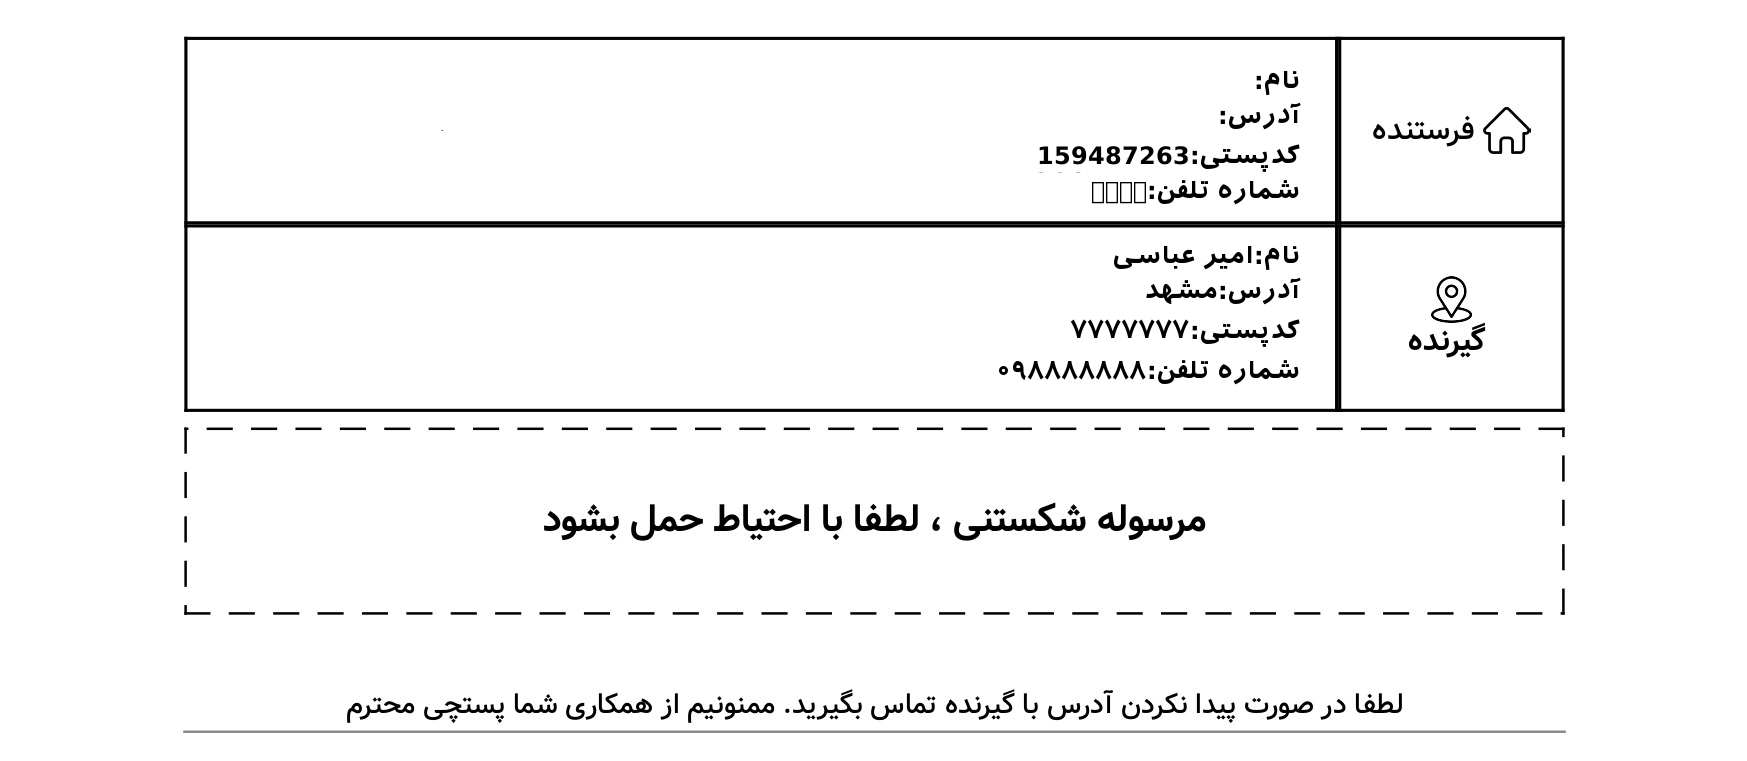
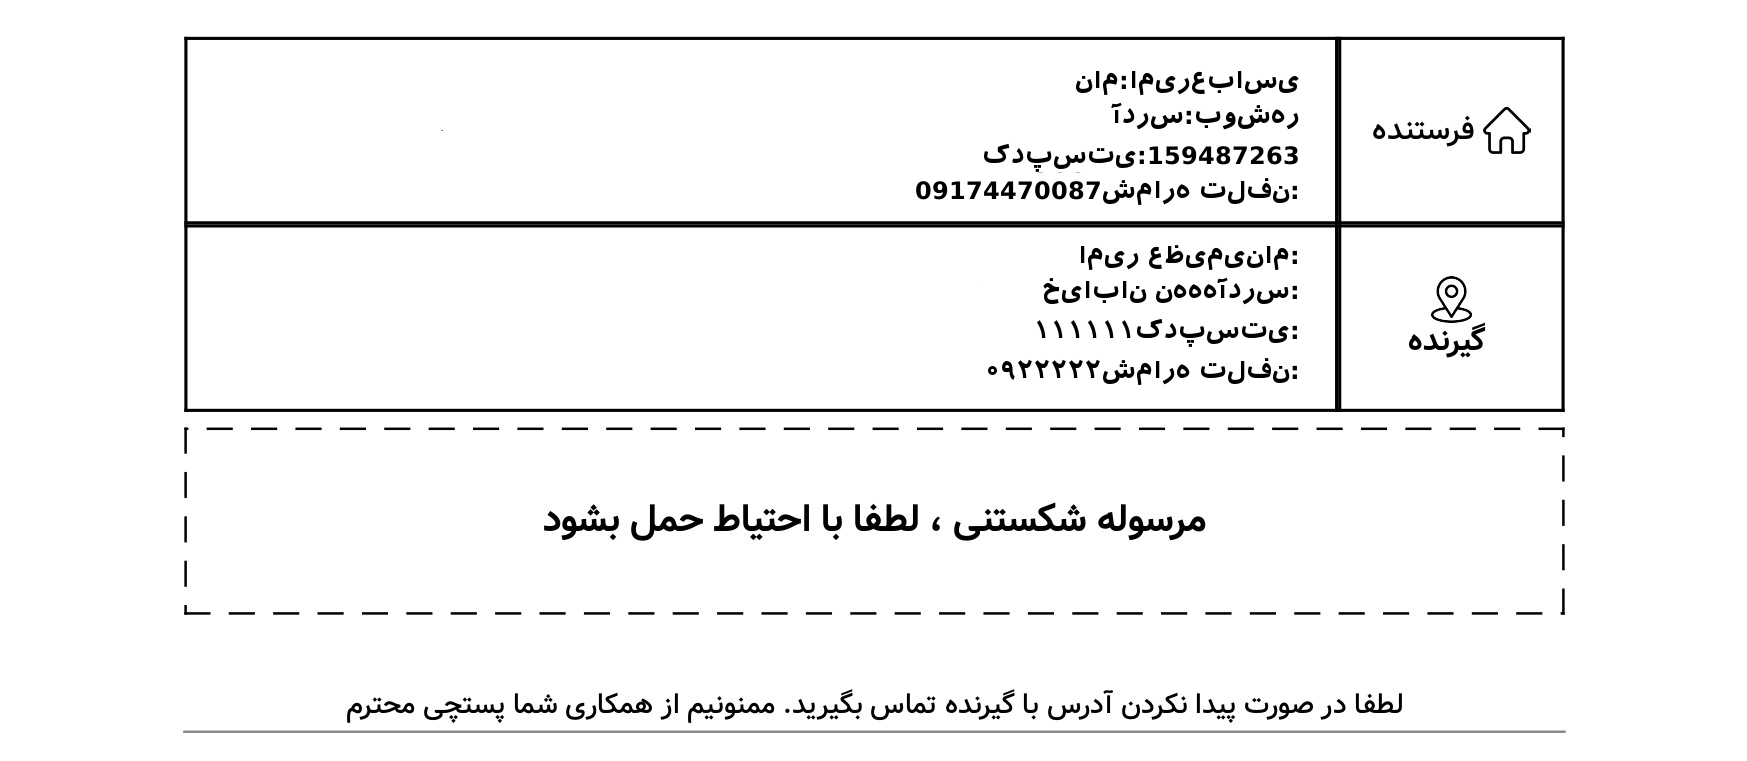
abababa

Changed region(s): [[0.5564, 0.3022, 0.7418, 0.5138], [0.5255, 0.0907, 0.7418, 0.272]]

diff --git a/app/lilbaby.py b/app/lilbaby.py
@@ -13,14 +13,14 @@ def create_label(data):
     draw = ImageDraw.Draw(img)
     # Load a font (you can specify your own font file)
     font = ImageFont.truetype("IranianSansBold.ttf", 24)
-    draw.text((1300, 80), f"{(data['seller_name'])}{('نام:')}", fill='black',anchor="rm" , font=font)
-    draw.text((1300, 115), f"{(data['seller_address'])}{('آدرس:')}", fill='black',anchor="rm", font=font)
-    draw.text((1300, 155), f"{data['seller_postcode']}{('کدپستی:')}", fill='black',anchor="rm", font=font)
-    draw.text((1300, 190), f"{data['seller_number']}{('شماره تلفن:')}", fill='black',anchor="rm", font=font)
-    draw.text((1300, 255), f"{(data['name'])}{('نام:')}", fill='black',anchor="rm" , font=font)
-    draw.text((1300, 290), f"{(data['address'])}{('آدرس:')}", fill='black',anchor="rm", font=font)
-    draw.text((1300, 330), f"{data['Zip']}{('کدپستی:')}", fill='black',anchor="rm", font=font)
-    draw.text((1300, 370), f"{data['phone']}{('شماره تلفن:')}", fill='black',anchor="rm", font=font)
+    draw.text((1300, 80), f"{('نام:')}{(data['seller_name'])}", fill='black',anchor="rm" , font=font)
+    draw.text((1300, 115), f"{('آدرس:')}{(data['seller_address'])}", fill='black',anchor="rm", font=font)
+    draw.text((1300, 155), f"{('کدپستی:')}{data['seller_postcode']}", fill='black',anchor="rm", font=font)
+    draw.text((1300, 190), f"{('شماره تلفن:')}{data['seller_number']}", fill='black',anchor="rm", font=font)
+    draw.text((1300, 255), f"{('نام:')}{(data['name'])}", fill='black',anchor="rm" , font=font)
+    draw.text((1300, 290), f"{('آدرس:')}{(data['address'])}", fill='black',anchor="rm", font=font)
+    draw.text((1300, 330), f"{('کدپستی:')}{data['Zip']}", fill='black',anchor="rm", font=font)
+    draw.text((1300, 370), f"{('شماره تلفن:')}{data['phone']}", fill='black',anchor="rm", font=font)
 
     return img
 
